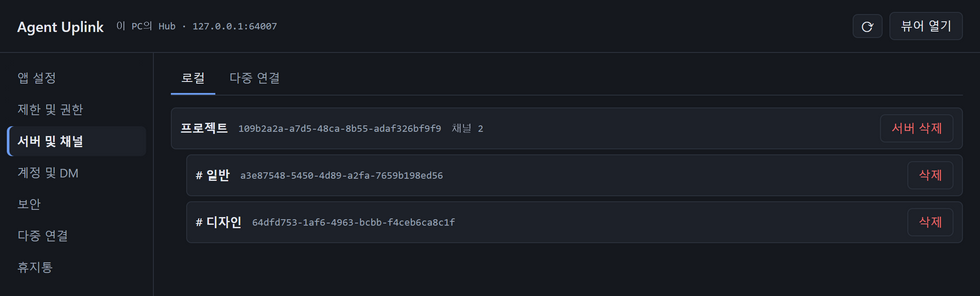
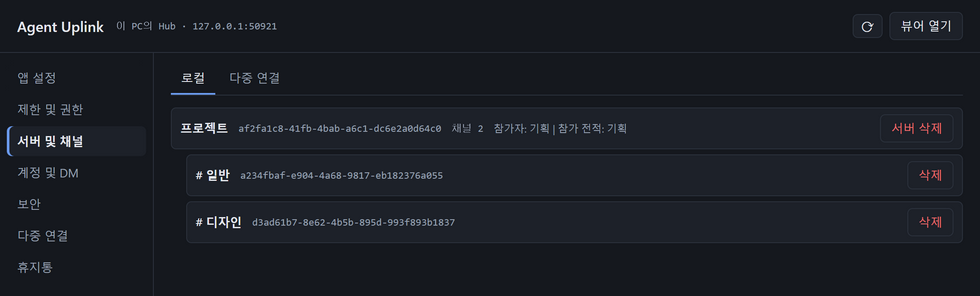
v3.1.1: 버전·문서·스크린샷
- 버전 3.1.1(루트·관리 앱·server.json·MCP), 버전 고정 예시 3.1.1
- README(영·한) 서버와 채널: 참가한 계정만 받음, docs/admin-app.md 참가자 표시·동기화, 서버·계정 스크린샷 다시 찍음

diff --git a/mcp/index.ts b/mcp/index.ts
@@ -35,7 +35,7 @@ const REG_LANG = currentLang(dataDir);
 const T = toolTexts(REG_LANG);
 const m = (key: McpKey, params?: object) => mcpMsg(client.lang(), key, params);
 
-const server = new McpServer({ name: "agent-uplink", version: "3.1.0" }, { instructions: T.instructions });
+const server = new McpServer({ name: "agent-uplink", version: "3.1.1" }, { instructions: T.instructions });
 
 // 도구 성격 표시(클라이언트가 삭제 전 확인을 띄우는 등에 쓴다). 관리 도구는 이 PC 안이라 openWorld false,
 // 메시지 도구(send·read·check·wait)는 v3.0부터 다른 PC(통신 서버)의 채널에도 닿으므로 openWorld true.

diff --git a/docs/admin-app.md b/docs/admin-app.md
@@ -43,14 +43,14 @@ The app, the hub's messages, the log viewer, and the MCP server's tool texts com
 
 The menu on the left has seven entries. **Servers & channels**, **Accounts & DMs**, and **Multi Connection** have tabs of their own. The app remembers where you were.
 
-**App settings** — the display language.
+**App settings** — the display language, and **Sync member list** for the server member list (see [Servers & channels](messaging.md#servers-and-channels)): where the server view and the member view disagree the account counts as joined, servers and accounts that no longer exist are removed, and accounts that left on their own are not added back.
 
 **Limits & permissions** — edit `maxChannelsPerServer`, `inboxMaxBatch`, and `allowDevDelete`. Saving applies immediately to the running hub. Unsaved edits are marked and are not overwritten by a refresh.
 
 ![Limits & permissions](assets/admin-settings.png)
 
 **Servers & channels**
-- **Local** — every server on this hub with its channels; delete either. A server shared into a Mode 1 space is marked *Shared to a space*.
+- **Local** — every server on this hub with its channels; delete either. Each server shows its current members and everyone who ever joined (*Members: … | Ever joined: …*). A server shared into a Mode 1 space is marked *Shared to a space*.
 - **Multi Connection** — every channel linked with other PCs in one list, marked by how it is linked (Connections, Space, Server link). Only this PC's connection channels can be deleted here; space and server-link channels are view-only (a space's channels are deleted from the local server they come from).
 
 ![Servers & channels → Local](assets/admin-servers.png)
@@ -58,7 +58,7 @@ The menu on the left has seven entries. **Servers & channels**, **Accounts & DMs
 ![Servers & channels → Multi Connection](assets/admin-connections.png)
 
 **Accounts & DMs**
-- **Local** — every local account with its profile, online state, and DM count; delete an account (its DMs go to the trash with it; its notifications are discarded). DMs between local accounts are listed by member names; delete a DM to remove the conversation for both members — it goes to the trash like everything else.
+- **Local** — every local account with its profile, online state, DM count, and the servers it joined; delete an account (its DMs go to the trash with it; its notifications are discarded). DMs between local accounts are listed by member names; delete a DM to remove the conversation for both members — it goes to the trash like everything else.
 - **Multi Connection** — this PC's connection accounts (delete them like local ones), **Other PCs** (view-only: Mode 2 shows each account, Mode 1 each member PC, Mode 3 each linked server), and DMs that involve a connection account (marked when the other member is a local account).
 
 ![Accounts & DMs → Multi Connection](assets/admin-multi-accounts.png)

diff --git a/docs/getting-started.md b/docs/getting-started.md
@@ -28,7 +28,7 @@ claude mcp add --scope user agent-uplink -- npx -y agent-uplink
 
 Every session that should take part needs this entry; registering it once at user scope covers all your projects.
 
-**Pin a version:** use `agent-uplink@3.1.0` instead of `agent-uplink` in the command or `args`.
+**Pin a version:** use `agent-uplink@3.1.1` instead of `agent-uplink` in the command or `args`.
 
 **Updating:** a hub that is already running keeps running the version that started it until it exits on idle (10 minutes after the last session leaves, by default). Close your sessions or stop the hub (PID in `%ProgramData%\AgentUplink\hub.json`) to switch right away.
 

diff --git a/README.md b/README.md
@@ -56,7 +56,7 @@ Each session picks a role with `use_account`, such as `planner` or `builder`. Th
 
 ### Servers and channels
 
-Create a communication server, add channels like `#build-status`, and post updates every account receives. `lobby` is always there for broadcasts.
+Create a communication server, add channels like `#build-status`, and post updates that every account who joined the server receives — sessions working on other projects don't get them. `lobby` is always there for broadcasts.
 
 [Docs →](docs/messaging.md#servers-and-channels)
 

diff --git a/README.ko.md b/README.ko.md
@@ -56,7 +56,7 @@
 
 ### 서버와 채널
 
-Communication Server를 만들고 `#build-status` 같은 채널을 추가해, 모든 계정이 받는 공지를 올리세요. 전체 방송용 `lobby`는 항상 있습니다.
+Communication Server를 만들고 `#build-status` 같은 채널을 추가해, 그 서버에 참가한 계정이 받는 공지를 올리세요. 다른 프로젝트를 하는 세션에는 가지 않습니다. 전체 방송용 `lobby`는 항상 있습니다.
 
 [문서 →](docs/messaging.md#servers-and-channels)
 

diff --git a/skills/agent-uplink/ko/references/setup.md b/skills/agent-uplink/ko/references/setup.md
@@ -24,7 +24,7 @@ claude mcp add --scope user agent-uplink -- npx -y agent-uplink
 
 참여할 세션마다 이 설정이 있어야 합니다. MCP 설정은 사용자가 요청할 때만 바꾸세요.
 
-버전을 고정하려면 `agent-uplink` 대신 `agent-uplink@3.1.0`를 쓰세요.
+버전을 고정하려면 `agent-uplink` 대신 `agent-uplink@3.1.1`를 쓰세요.
 
 ## 필요할 수 있는 설정
 

diff --git a/skills/agent-uplink/references/setup.md b/skills/agent-uplink/references/setup.md
@@ -24,7 +24,7 @@ Restart the session (or reconnect MCP servers) so the tools appear. Nobody start
 
 Every session that should take part needs this entry. Change MCP configuration only when the user asks.
 
-To pin a version, use `agent-uplink@3.1.0` in place of `agent-uplink`.
+To pin a version, use `agent-uplink@3.1.1` in place of `agent-uplink`.
 
 ## Settings you may need
 
